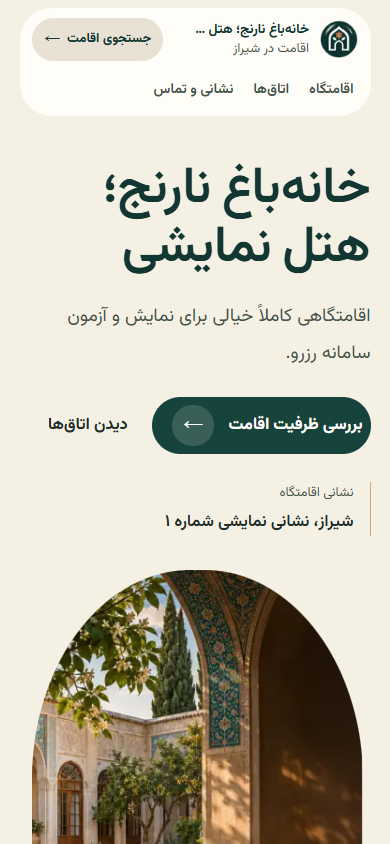
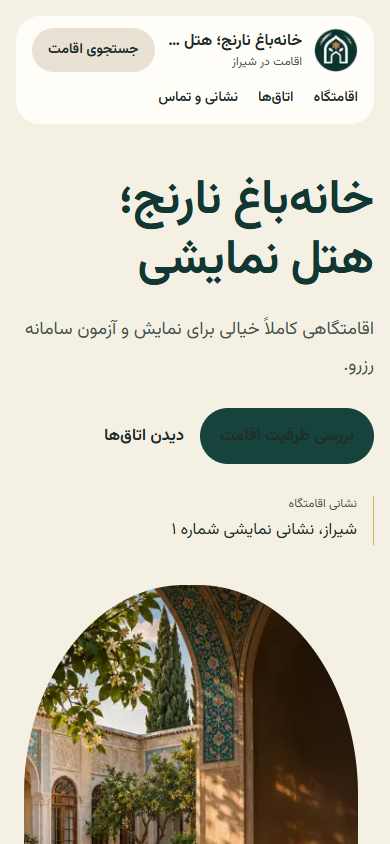
docs: refresh README UI screenshots

diff --git a/README.md b/README.md
@@ -15,7 +15,7 @@ This is a booking-request workflow, not instant booking: staff confirmation is r
 
 ## Interface
 
-The Persian RTL interface uses a warm stone palette, deep garden-green accents, one Vazirmatn Variable font family, shared responsive typography and spacing tokens, and clear focus states across guest and staff pages. A generated courtyard-and-orange-blossom emblem is shared by the guest site, staff workspace, footer, favicon, and Apple touch icon.
+The Persian RTL interface uses a warm stone palette, deep garden-green accents, one Vazirmatn Variable font family, shared responsive typography and spacing tokens, and clear focus states across guest and staff pages. Tailwind theme tokens and shared shadcn components form the implementation standard; see the [design system](design.md) before changing page styling. A generated courtyard-and-orange-blossom emblem is shared by the guest site, staff workspace, footer, favicon, and Apple touch icon.
 
 - **Guests** can explore the property, search by dates and party size, compare available rooms and prices, review a room, and submit a stay request. The request page explains that reception must confirm it and that no payment is taken online.
 - **Staff** use a separate sign-in and role-protected operational workspace. Reception handles bookings and arrivals; housekeeping works assigned tasks; cashiers post folio charges and offline payments; managers oversee operations, maintenance, service catalog, folios, and night close; administrators also manage staff accounts and all capabilities. Authorization is enforced by the API.
@@ -168,7 +168,7 @@ The local Compose named volume persists PostgreSQL data when the container stops
 
 ## Screenshots
 
-These screenshots show the Persian RTL guest request and staff journeys using fictional test data and generated conceptual hotel imagery. The PMS screenshots below were captured by the successful HPM release Playwright run and are tracked here for review.
+The guest and staff screenshots below were regenerated from the current Tailwind and shadcn interface. They use fictional demo data and conceptual hotel imagery. The PMS workflow screenshots show additional staff journeys captured by the release Playwright run.
 
 ### Guest experience
 
